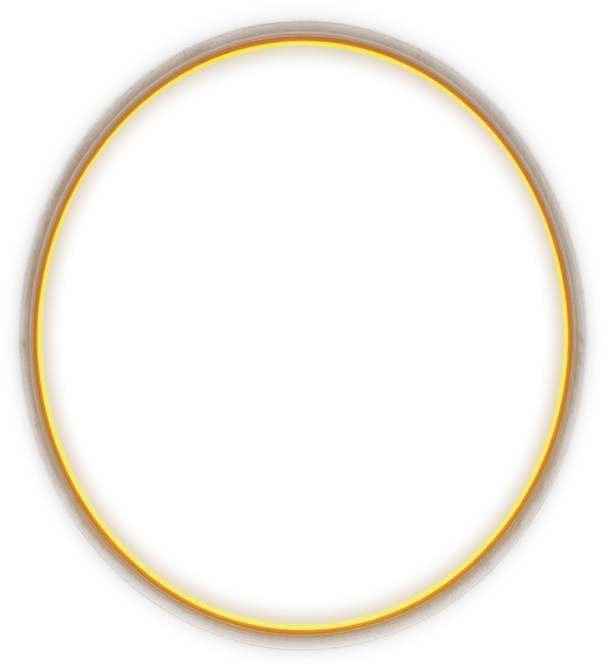
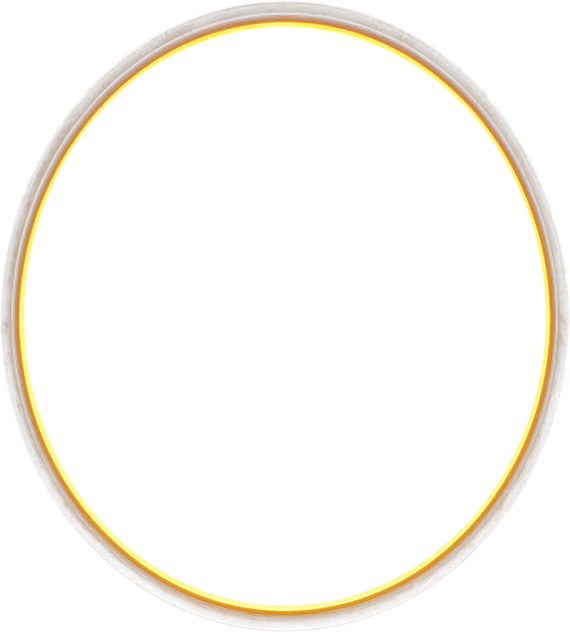
NERD RADIO: Gehäuseflächen aus dem Ergänzungspaket, Pilz und Ring mit getrenntem Kern und Schein
- Seiten, Ober-/Unterseite und Rückwand tragen die Flächen aus nerd-radio-surfaces (Lämpchen aus), Tiefe passend 432 px
- Lichtebenen geteilt: scharfer Kern bleibt beim Spielen fast voll hell, nur der weiche Schein pulsiert
- Test: Lautstärke-Prüfung wartet auf die Rampe im Audio-Thread statt fester 300 ms

Changed region(s): [[0.0, 0.0, 1.0, 0.9921]]

diff --git a/dau-to-pro/nerd-radio.js b/dau-to-pro/nerd-radio.js
@@ -54,7 +54,8 @@
     status: $('[data-radio-status]'), playlist: $('[data-radio-playlist]'), trackList: $('[data-radio-tracks]'),
     shuffleInd: $('[data-radio-shuffle-ind]'), loopInd: $('[data-radio-loop-ind]'), canvas: $('[data-radio-viz]'),
     faces: [...root.querySelectorAll('[data-radio-face]')],
-    gold: $('[data-radio-light="gold"]'), cyan: $('[data-radio-light="cyan"]')
+    gold: $('[data-radio-light="gold"]'), cyan: $('[data-radio-light="cyan"]'),
+    goldHalo: $('[data-radio-light="gold-halo"]'), cyanHalo: $('[data-radio-light="cyan-halo"]')
   };
   const pen = ui.canvas.getContext('2d');
   const reduced = matchMedia('(prefers-reduced-motion: reduce)');
@@ -336,16 +337,18 @@
   // Echte Beleuchtung: die gerenderten Lichtebenen werden mit der Musik heller und dunkler.
   // Gold (Lautsprecherringe, Schultern, Sockel) folgt dem Bass, Cyan (Neonrahmen, Pilze) den Höhen.
   // Ohne Musik sind die Leuchten aus (nur ein schwacher Bereitschaftsschimmer).
+  // Der scharfe Kern (Ring, Pixelpilz) bleibt beim Spielen fast voll hell, nur der weiche Schein pulsiert stark;
+  // so wirkt der Pilz nie verwaschen, auch wenn die Musik leise ist.
   const STANDBY = 0.06;
   function applyBass() {
     const calm = reduced.matches, on = state === 'playing';
-    const gold = !on ? STANDBY : calm ? 0.9 : 0.3 + 0.7 * Math.min(1, bass * 1.5);
-    const cyan = !on ? STANDBY : calm ? 0.9 : 0.4 + 0.6 * Math.min(1, treble * 2);
-    const key = gold.toFixed(2) + cyan.toFixed(2);
+    const lo = Math.min(1, bass * 1.5), hi = Math.min(1, treble * 2);
+    const v = !on ? [STANDBY, STANDBY, STANDBY, STANDBY] : calm ? [0.95, 0.7, 0.95, 0.7]
+      : [0.82 + 0.18 * lo, 0.12 + 0.88 * lo, 0.85 + 0.15 * hi, 0.12 + 0.88 * hi];
+    const key = v.map(n => n.toFixed(2)).join();
     if (key === lastLight) return;
     lastLight = key;
-    if (ui.gold) ui.gold.style.opacity = gold.toFixed(2);
-    if (ui.cyan) ui.cyan.style.opacity = cyan.toFixed(2);
+    [ui.gold, ui.goldHalo, ui.cyan, ui.cyanHalo].forEach((el, i) => { if (el) el.style.opacity = v[i].toFixed(2); });
   }
 
   /* Display und Regler auf die schräge Front legen: Homographie aus den vier von Blender

diff --git a/dau-to-pro/nerd-radio/layout.css b/dau-to-pro/nerd-radio/layout.css
@@ -1,12 +1,16 @@
 /* Generiert von tools/nerd-radio/build_boombox.py – nicht von Hand ändern. Positionen in Paket-Koordinaten. */
-.nr-device{aspect-ratio:1758/961;--nr-face:"0.03563 0.06078 0.93544 0.00636 0.90375 0.99364 0.00683 0.76208"}
+.nr-device{aspect-ratio:1746/961;--nr-face:"0.03587 0.06078 0.94177 0.00636 0.90986 0.99364 0.00687 0.76208"}
 .nr-face{width:2910px;height:1242px}
 .nr-display{left:28.763%;top:33.333%;width:45.361%;height:24.155%}
 .nr-volume{left:37.010%;top:79.469%;width:28.969%;height:9.420%}
-.nr-glow__gold-l{left:5.945%;top:35.346%;width:20.790%;height:53.784%}
-.nr-glow__gold-r{left:75.842%;top:35.427%;width:21.787%;height:55.958%}
-.nr-glow__cyan-l{left:12.302%;top:51.771%;width:9.141%;height:19.887%}
-.nr-glow__cyan-r{left:81.581%;top:52.335%;width:9.210%;height:20.048%}
+.nr-glow__gold-halo-l{left:5.945%;top:35.346%;width:20.790%;height:53.784%}
+.nr-glow__gold-halo-r{left:75.842%;top:35.427%;width:21.787%;height:55.958%}
+.nr-glow__gold-l{left:6.564%;top:36.876%;width:19.588%;height:50.886%}
+.nr-glow__gold-r{left:76.495%;top:36.957%;width:20.550%;height:52.979%}
+.nr-glow__cyan-halo-l{left:12.302%;top:51.771%;width:9.141%;height:19.887%}
+.nr-glow__cyan-halo-r{left:81.581%;top:52.335%;width:9.210%;height:20.048%}
+.nr-glow__cyan-l{left:12.577%;top:52.415%;width:8.763%;height:18.760%}
+.nr-glow__cyan-r{left:81.890%;top:52.979%;width:8.797%;height:18.921%}
 .nr-key[data-radio-prev]{left:30.000%;top:63.043%;width:6.598%;height:12.077%;background-image:url(key-previous-normal.webp)}
 .nr-key[data-radio-prev]:hover{background-image:url(key-previous-hover.webp)}
 .nr-key[data-radio-prev]:active,.nr-key[data-radio-prev].is-down{background-image:url(key-previous-pressed.webp)}

diff --git a/tools/nerd-radio/prepare_pack.py b/tools/nerd-radio/prepare_pack.py
@@ -2,15 +2,18 @@
 
 Aufruf (Python 3 mit Pillow, NumPy, SciPy):
   python tools/nerd-radio/prepare_pack.py --pack <Ordner mit nerd-radio-pack> [--web dau-to-pro/nerd-radio] [--work tools/nerd-radio/.work]
+         [--surfaces <Ordner mit nerd-radio-surfaces>]
 
 Schritte:
 - Front-Textur für Blender (work/front.png, 2910 x 1242, Paket-Koordinaten): modulare Hülle mit
   ausgeschalteten Leuchten. Leuchtstreifen, Seitenschlitze und Neonlinien zum Griff werden abgedunkelt bzw.
   entfernt. In die Aussparungen kommen Lautsprecher (Gitter + Rand, Ring aus) und das leere Display-Glas.
-- Lichtebenen für die Website (light-gold-l/r.webp = Lautsprecherringe + Schein, light-cyan-l/r.webp =
-  Pixelpilze + Schein), je Lautsprecher zugeschnitten, in voller Paketauflösung (Pilze verlustfrei, damit
-  die feinen Pixellinien scharf bleiben), Positionen in pack.json. Nur diese beiden leuchten, ihre Helligkeit folgt der Musik.
+- Lichtebenen für die Website, je Lautsprecher zugeschnitten, in voller Paketauflösung, Positionen in pack.json:
+  light-gold-*/light-cyan-* = scharfer Kern (Ring bzw. Pixelpilz, Pilz verlustfrei), light-gold-halo-*/light-cyan-halo-*
+  = weicher Schein. Kern und Schein sind getrennt, damit der Kern beim Pulsieren hell und scharf bleibt. Nur diese beiden leuchten, ihre Helligkeit folgt der Musik.
 - Tasten (normal / hover / gedrückt) und Lautstärkeregler als WebP.
+- Gehäuseflächen (optional, Paket „nerd-radio-surfaces“): Seiten, Ober-/Unterseite und Rückwand mit
+  ausgeschalteten Lämpchen als work/surfaces/*.png für build_boombox.py.
 - work/pack.json mit allen Platzierungen (Paket-Koordinaten) für build_boombox.py.
 """
 import argparse, json, os
@@ -22,6 +25,7 @@ ap = argparse.ArgumentParser()
 ap.add_argument('--pack', required=True)
 ap.add_argument('--web', default='dau-to-pro/nerd-radio')
 ap.add_argument('--work', default='tools/nerd-radio/.work')
+ap.add_argument('--surfaces')
 args = ap.parse_args()
 PACK = args.pack if os.path.isdir(os.path.join(args.pack, 'assets')) else os.path.join(args.pack, 'nerd-radio-pack')
 A = lambda p: os.path.join(PACK, 'assets', p)
@@ -123,7 +127,7 @@ under(front, glass, x0 - 8, y0 - 8)
 # Lautsprecher: Gitter + Rand mit ausgeschaltetem Ring, dazu ausgeschaltete Pixelpilze
 # Pilzmitte und -größe aus der integrierten Hülle des Pakets gemessen
 MUSH = {'left': (486.5, 764.5, 0.785), 'right': (2503.5, 772.0, 0.79)}
-gold = np.zeros((CH, CW, 4), np.float32); cyan = np.zeros((CH, CW, 4), np.float32)
+LAYERS = {n: np.zeros((CH, CW, 4), np.float32) for n in ('gold-halo', 'gold', 'cyan-halo', 'cyan')}
 layout_spk = {}
 for side in ('left', 'right'):
     x0, y0, x1, y1 = SPK[side]
@@ -143,11 +147,11 @@ for side in ('left', 'right'):
     over(spk, resize(m_off, mw, mh), mx - ox, my - oy)
     under(front, spk, ox, oy)
     # Lichtebenen in gleicher Lage
-    over(gold, resize(load(f'speakers/glow-amber-{side}.png'), W, H), ox, oy)
-    over(gold, resize(load(f'speakers/ring-amber-{side}.png'), W, H), ox, oy)
+    over(LAYERS['gold-halo'], resize(load(f'speakers/glow-amber-{side}.png'), W, H), ox, oy)
+    over(LAYERS['gold'], resize(load(f'speakers/ring-amber-{side}.png'), W, H), ox, oy)
     g2 = load(f'speakers/mushroom-glow-{side}.png')
-    over(cyan, resize(g2, round(g2.shape[1] * ms), round(g2.shape[0] * ms)), mx + round((m.shape[1] - g2.shape[1]) * ms / 2), my + round((m.shape[0] - g2.shape[0]) * ms / 2))
-    over(cyan, resize(m, mw, mh), mx, my)
+    over(LAYERS['cyan-halo'], resize(g2, round(g2.shape[1] * ms), round(g2.shape[0] * ms)), mx + round((m.shape[1] - g2.shape[1]) * ms / 2), my + round((m.shape[0] - g2.shape[0]) * ms / 2))
+    over(LAYERS['cyan'], resize(m, mw, mh), mx, my)
     layout_spk[side] = [ox, oy, W, H]
 
 # Front für Blender (verlustfrei, volle Auflösung)
@@ -156,14 +160,14 @@ print('FRONT', front.shape)
 
 # ---------------------------------------------------------------- Website-Ebenen
 LIGHTS = {}
-for name, layer in (('gold', gold), ('cyan', cyan)):
+for name, layer in LAYERS.items():
     for side, (x0, x1) in (('l', (0, CW // 2)), ('r', (CW // 2, CW))):
         ys_, xs_ = np.nonzero(layer[:, x0:x1, 3] > 0.004)
         bx0, by0, bx1, by1 = int(xs_.min() + x0), int(ys_.min()), int(xs_.max() + x0 + 1), int(ys_.max() + 1)
         crop = layer[by0:by1, bx0:bx1]
         crop[crop[..., 3] < 0.004] = 0      # transparente Pixel ohne Farbe -> kleinere Datei
-        # Pilze verlustfrei (feine Pixellinien, sonst verschmiert die Farbunterabtastung), Ringschein in hoher Qualität
-        save(crop, os.path.join(args.web, f'light-{name}-{side}.webp'), quality=92, lossless=(name == 'cyan'))
+        # Pilz verlustfrei (feine Pixellinien, sonst verschmiert die Farbunterabtastung), Ring in hoher Qualität, Schein komprimiert
+        save(crop, os.path.join(args.web, f'light-{name}-{side}.webp'), quality=(94 if name == 'gold' else 88), lossless=(name == 'cyan'))
         LIGHTS[f'{name}-{side}'] = [bx0, by0, bx1 - bx0, by1 - by0]
 
 KEY_W = 200   # Tasten: 416 x 320 im Paket -> 200 px breit (reicht für 2x bei max. Gerätegröße)
@@ -176,7 +180,20 @@ for src, dst, w in (('volume/volume-track.png', 'vol-track.webp', 512), ('volume
                     ('volume/slider-handle.png', 'vol-knob.webp', 96)):
     img = load(src); save(resize(img, w, round(w * img.shape[0] / img.shape[1])), os.path.join(args.web, dst))
 
-json.dump({'canvas': [CW, CH], 'display': manifest['layout']['display'], 'display_hole': DISP,
+# ---------------------------------------------------------------- Gehäuseflächen (Ergänzungspaket)
+SURF = None
+if args.surfaces:
+    sdir = args.surfaces if os.path.isdir(os.path.join(args.surfaces, 'assets')) else os.path.join(args.surfaces, 'nerd-radio-surfaces')
+    smani = json.load(open(os.path.join(sdir, 'manifest.json'), encoding='utf-8'))
+    os.makedirs(os.path.join(args.work, 'surfaces'), exist_ok=True)
+    for name in ('side-left', 'side-right', 'top', 'bottom', 'rear'):
+        img = np.asarray(Image.open(os.path.join(sdir, 'assets', f'{name}.png')).convert('RGBA')).astype(np.float32) / 255
+        img = lights_off(img)              # Lämpchen an den Seiten bleiben aus: nur Ringe und Pilze leuchten
+        Image.fromarray((np.clip(img, 0, 1) * 255 + 0.5).astype(np.uint8), 'RGBA').save(os.path.join(args.work, 'surfaces', f'{name}.png'))
+    b = smani['body']
+    SURF = {'body_top': b['bodyTopOnFront'], 'body_bottom': b['bodyBottomOnFront'], 'depth': b['depth']}
+
+json.dump({'canvas': [CW, CH], 'surfaces': SURF, 'display': manifest['layout']['display'], 'display_hole': DISP,
            'controls': manifest['layout']['controls'], 'volume': manifest['layout']['volume'], 'speakers': layout_spk, 'lights': LIGHTS},
           open(os.path.join(args.work, 'pack.json'), 'w'), indent=1)
 print('PACK', json.dumps(layout_spk), DISP)

diff --git a/tools/nerd-radio/build_boombox.py b/tools/nerd-radio/build_boombox.py
@@ -6,7 +6,9 @@ Aufruf (Blender 5.x, Cycles):
 
 Modell: Die gemalte Paket-Front (Leuchten aus) liegt als Textur auf einem Korpus, der aus ihrer Silhouette
 extrudiert wird. Korpus und Logo-Schild haben volle Tiefe, der Griff sitzt zurückversetzt. Die Front wird
-unverändert wiedergegeben (Farben 1:1 aus dem Paket), Seiten und Oberseite sind echtes, beleuchtetes Metall.
+unverändert wiedergegeben (Farben 1:1 aus dem Paket). Seiten, Ober-/Unterseite und Rückwand tragen die Flächen
+aus dem Ergänzungspaket (nerd-radio-surfaces, per prepare_pack.py --surfaces), Projektion je Flächenrichtung;
+ohne sie bleibt es bei schlichtem dunklem Metall.
 Die Kamera schaut leicht schräg: rechte vordere Ecke näher, Gerät leicht nach hinten gekippt.
 
 Ausgabe: base.webp / base-half.webp (Gehäuse) und layout.css (Seitenverhältnis, Eckpunkte der Frontebene
@@ -40,6 +42,9 @@ k = CW / 1400                            # Messraster der Vorschau (siehe prepar
 BODY_TOP = 116 * k                       # Oberkante Korpus; darüber Griff und Logo-Schild
 PLATE = (440 * k, 80 * k, 970 * k)       # Logo-Schild: x0, Oberkante, x1
 DEPTH, HANDLE_FRONT, HANDLE_DEPTH = 1.7, 0.55, 0.5
+SURF = PACK.get('surfaces')
+if SURF:
+    DEPTH = SURF['depth'] * U             # Tiefe passend zu den Gehäuseflächen (432 px bei 2910 px Breite)
 
 # ---------------------------------------------------------------- Materialien
 def nodes(mat):
@@ -66,6 +71,31 @@ bump = nt.nodes.new('ShaderNodeBump'); bump.inputs['Strength'].default_value = 0
 nt.links.new(nz.outputs['Fac'], bump.inputs['Height']); nt.links.new(bump.outputs['Normal'], b.inputs['Normal'])
 o = nt.nodes.new('ShaderNodeOutputMaterial'); nt.links.new(b.outputs[0], o.inputs[0])
 
+# Gehäuseflächen: Farbtextur mit eingebrannter Materialbeleuchtung, wie die Front ungeschattet wiedergegeben
+# (Studiolicht würde den dunklen Lack grau überstrahlen). Je Richtung etwas dunkler, damit der Körper plastisch wirkt.
+SURF_NAMES = ['side-left', 'side-right', 'top', 'bottom', 'rear']
+SURF_LEVEL = {'side-left': 0.8, 'side-right': 0.8, 'top': 0.92, 'bottom': 0.55, 'rear': 0.65}
+surf_mats = []
+for name in (SURF_NAMES if SURF else []):
+    m = bpy.data.materials.new(name); nt = nodes(m)
+    t = nt.nodes.new('ShaderNodeTexImage'); t.image = bpy.data.images.load(os.path.join(WORK, 'surfaces', f'{name}.png'))
+    t.image.colorspace_settings.name = 'sRGB'; t.interpolation = 'Cubic'; t.extension = 'EXTEND'
+    e = nt.nodes.new('ShaderNodeEmission'); nt.links.new(t.outputs['Color'], e.inputs['Color']); e.inputs['Strength'].default_value = SURF_LEVEL[name]
+    o = nt.nodes.new('ShaderNodeOutputMaterial'); nt.links.new(e.outputs[0], o.inputs[0])
+    surf_mats.append(m)
+
+def surface_uv(n, co):
+    """Materialindex und UV einer Außenfläche nach ihrer Richtung (Bildorientierung laut README des Ergänzungspakets)."""
+    u = (co.x / U + CW / 2) / CW                         # 0 = links, 1 = rechts (wie Front)
+    d = min(1.0, max(0.0, co.y / DEPTH))                 # 0 = vorne, 1 = hinten
+    zt, zb = Z(SURF['body_top']), Z(SURF['body_bottom'])
+    v = (co.z - zb) / (zt - zb)                          # 0 = unten, 1 = Körperoberkante
+    if abs(n.x) >= max(abs(n.y), abs(n.z)):
+        return (2, (1 - d, v)) if n.x < 0 else (3, (d, v))   # links: vorne rechts im Bild; rechts: vorne links
+    if abs(n.z) >= abs(n.y):
+        return (4, (u, d)) if n.z > 0 else (5, (u, 1 - d))   # oben: hinten am oberen Bildrand; unten: vorne oben
+    return 6, (1 - u, v)                                     # Rückwand von außen: links = Front rechts
+
 # ---------------------------------------------------------------- Korpus aus der Silhouette
 px = np.array(img.pixels[:], dtype=np.float32).reshape(CH, CW, 4)[::-1]   # Blender speichert von unten nach oben
 CELL = 6 if PREVIEW else 3
@@ -77,7 +107,7 @@ upper = np.broadcast_to(ys[:, None] < BODY_TOP, solid.shape)
 plate = upper & (ys[:, None] >= PLATE[1]) & (xs[None, :] >= PLATE[0]) & (xs[None, :] <= PLATE[2])
 parts = {'body': solid & (~upper | plate), 'handle': solid & upper & ~plate}
 
-def slab(name, cells, front, depth):
+def slab(name, cells, front, depth, surfaces=False):
     """Zellen der Silhouette als Fläche bei Y=front anlegen und nach hinten extrudieren."""
     vid = -np.ones((gh + 1, gw + 1), np.int64); verts = []
     rr, cc = np.nonzero(cells)
@@ -89,6 +119,7 @@ def slab(name, cells, front, depth):
     faces = [(int(vid[r, c]), int(vid[r + 1, c]), int(vid[r + 1, c + 1]), int(vid[r, c + 1])) for r, c in zip(rr, cc)]
     me = bpy.data.meshes.new(name); me.from_pydata(verts, [], faces); me.update()
     me.materials.append(front_mat); me.materials.append(side_mat)
+    for m in surf_mats: me.materials.append(m)
     bm = bmesh.new(); bm.from_mesh(me)
     uv = bm.loops.layers.uv.new('UVMap')
     for f in bm.faces:
@@ -100,10 +131,16 @@ def slab(name, cells, front, depth):
     bmesh.ops.translate(bm, verts=moved, vec=(0, depth, 0))
     for f in bm.faces: f.material_index = 0 if f in fronts else 1
     bmesh.ops.recalc_face_normals(bm, faces=list(bm.faces))
+    if surfaces and surf_mats:
+        for f in bm.faces:
+            if f in fronts: continue
+            f.normal_update()
+            for l in f.loops:
+                f.material_index, l[uv].uv = surface_uv(f.normal, l.vert.co)
     bm.to_mesh(me); bm.free()
     ob = bpy.data.objects.new(name, me); scene.collection.objects.link(ob)
     return ob
-slab('body', parts['body'], 0.0, DEPTH)
+slab('body', parts['body'], 0.0, DEPTH, surfaces=True)
 slab('handle', parts['handle'], HANDLE_FRONT, HANDLE_DEPTH)
 
 # ---------------------------------------------------------------- Licht, Kamera, Welt

diff --git a/dau-to-pro/index.php b/dau-to-pro/index.php
@@ -108,6 +108,9 @@ $topicLabels=['subnet'=>'IP & Subnetting','netzwerk'=>'Netzwerke','sicherheit'=>
           <!-- Frontebene in Paket-Koordinaten; per matrix3d perspektivisch exakt auf die Gehäusefront gelegt -->
           <div class="nr-face" data-radio-face>
           <!-- Echtes Licht: nur Lautsprecherringe (Gold = Bass) und Pixelpilze (Cyan = Höhen) leuchten, Helligkeit folgt der Musik -->
+<?php foreach (['gold-halo', 'cyan-halo'] as $nrL): ?>
+          <div class="nr-glow" data-radio-light="<?=$nrL?>" aria-hidden="true"><?php foreach (['l', 'r'] as $nrS): $nrF = "nerd-radio/light-$nrL-$nrS.webp"; ?><img class="nr-glow__<?=$nrL?>-<?=$nrS?>" src="<?=$nrF?>?v=<?=filemtime(__DIR__.'/'.$nrF)?>" alt="" decoding="async"><?php endforeach; ?></div>
+<?php endforeach; ?>
           <div class="nr-glow" data-radio-light="gold" aria-hidden="true"><img class="nr-glow__gold-l" src="nerd-radio/light-gold-l.webp?v=<?=filemtime(__DIR__.'/nerd-radio/light-gold-l.webp')?>" alt="" decoding="async"><img class="nr-glow__gold-r" src="nerd-radio/light-gold-r.webp?v=<?=filemtime(__DIR__.'/nerd-radio/light-gold-r.webp')?>" alt="" decoding="async"></div>
           <div class="nr-glow" data-radio-light="cyan" aria-hidden="true"><img class="nr-glow__cyan-l" src="nerd-radio/light-cyan-l.webp?v=<?=filemtime(__DIR__.'/nerd-radio/light-cyan-l.webp')?>" alt="" decoding="async"><img class="nr-glow__cyan-r" src="nerd-radio/light-cyan-r.webp?v=<?=filemtime(__DIR__.'/nerd-radio/light-cyan-r.webp')?>" alt="" decoding="async"></div>
           <div class="nr-display">
